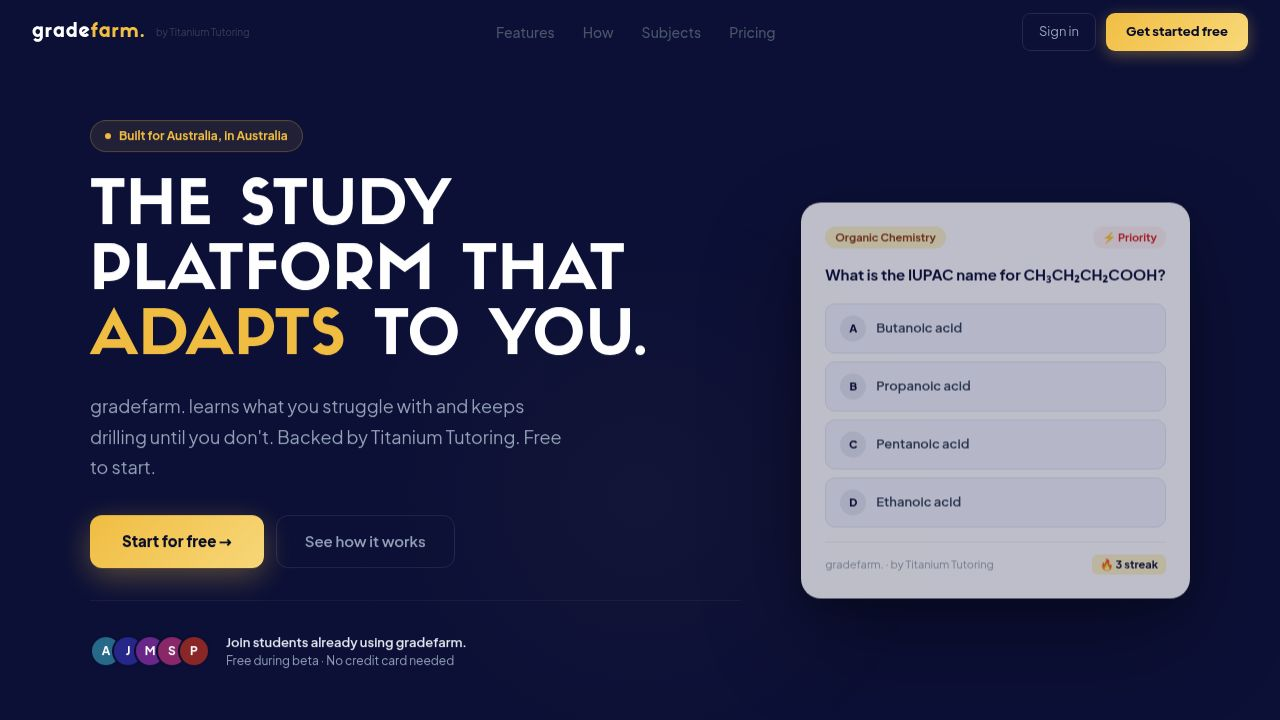
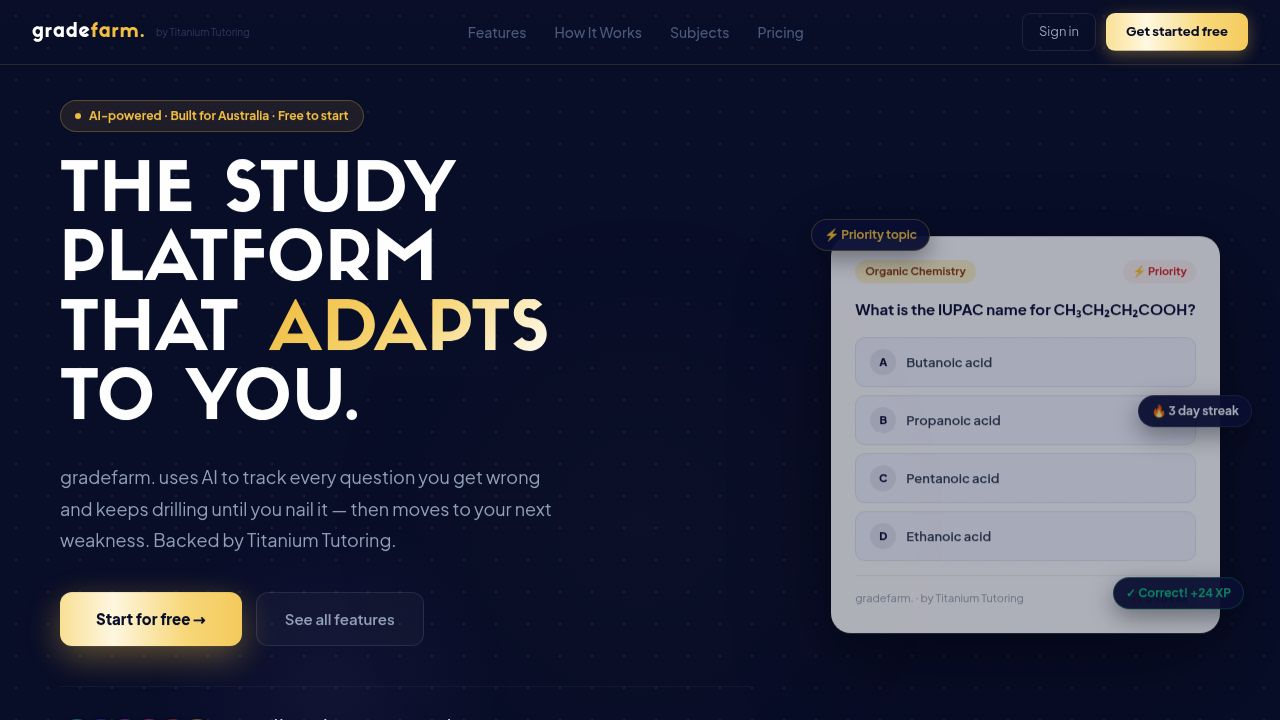
Add mobile-friendly hamburger menu to landing page nav
Task: Add a hamburger menu to the gradefarm. landing page for mobile visitors
who previously had no way to navigate to page sections on small screens.

Implementation:
- Added MobileMenu component in LandingPage.jsx with a slide-down drawer
- Drawer uses max-height + visibility transition for smooth open/close animation
- visibility:hidden (delayed until after max-height transition) removes elements
  from the accessibility tree when closed
- Hamburger button (☰/✕ toggle) added to nav; .hmenu class shows it at the
  same breakpoint (<= 900px) where .dnav hides the desktop nav links, ensuring
  no gap where neither control is visible
- Sign in and Get started buttons given .dnav class so they also hide on mobile
- ESC key dismisses the drawer (keydown listener, cleaned up on unmount)
- Outside tap dismisses via a transparent fixed overlay (position:fixed,inset:0)
  that renders only when the menu is open
- Clicking any nav link scrolls to the section smoothly and closes the drawer

Files changed:
- artifacts/gradefarm/src/components/LandingPage.jsx

Code review fix applied:
- Changed .hmenu breakpoint from 768px to 900px to match .dnav breakpoint,
  eliminating the 769-900px gap where no nav was accessible

Verified with Playwright e2e tests at 390x844 viewport: all interactions pass.

Replit-Task-Id: 02be6da1-bb95-4285-999b-b8ba0be54cf0

diff --git a/artifacts/gradefarm/src/components/LandingPage.jsx b/artifacts/gradefarm/src/components/LandingPage.jsx
@@ -235,16 +235,73 @@ function DemoCard() {
   )
 }
 
+/* ─── MobileMenu ───────────────────────────────────────────────────────── */
+
+function MobileMenu({ open, onClose, onNavigate }) {
+  const NAV_LINKS = [['features','Features'],['how','How It Works'],['subjects','Subjects'],['pricing','Pricing']]
+
+  useEffect(() => {
+    if (!open) return
+    const onKey = e => { if (e.key === 'Escape') onClose() }
+    window.addEventListener('keydown', onKey)
+    return () => window.removeEventListener('keydown', onKey)
+  }, [open, onClose])
+
+  return (
+    <>
+      {open && (
+        <div
+          onClick={onClose}
+          style={{ position:'fixed', inset:0, zIndex:98, background:'transparent' }}
+        />
+      )}
+      <div style={{
+        position: 'fixed', top: 64, left: 0, right: 0, zIndex: 99,
+        background: 'rgba(8,13,40,0.98)', backdropFilter: 'blur(20px)',
+        borderBottom: '1px solid rgba(241,190,67,0.15)',
+        overflow: 'hidden',
+        maxHeight: open ? 280 : 0,
+        visibility: open ? 'visible' : 'hidden',
+        transition: 'max-height 0.35s cubic-bezier(0.4,0,0.2,1), visibility 0s linear ' + (open ? '0s' : '0.35s'),
+      }}>
+        <div style={{ padding: '12px 24px 20px', display: 'flex', flexDirection: 'column', gap: 4 }}>
+          {NAV_LINKS.map(([id, label]) => (
+            <button
+              key={id}
+              onClick={() => onNavigate(id)}
+              style={{
+                background: 'none', border: 'none',
+                color: '#94a3b8', fontSize: 16, fontWeight: 600,
+                fontFamily: "'Plus Jakarta Sans', sans-serif",
+                textAlign: 'left', cursor: 'pointer',
+                padding: '14px 8px',
+                borderBottom: '1px solid rgba(255,255,255,0.05)',
+                transition: 'color 0.15s',
+              }}
+              onMouseEnter={e => { e.currentTarget.style.color = '#f1f5f9' }}
+              onMouseLeave={e => { e.currentTarget.style.color = '#94a3b8' }}
+            >
+              {label}
+            </button>
+          ))}
+        </div>
+      </div>
+    </>
+  )
+}
+
 /* ─── main component ───────────────────────────────────────────────────── */
 
 export default function LandingPage({ onGetStarted, onSignIn }) {
   const [scrolled, setScrolled] = useState(false)
+  const [menuOpen, setMenuOpen] = useState(false)
   useEffect(() => {
     const h = () => setScrolled(window.scrollY > 40)
     window.addEventListener('scroll', h)
     return () => window.removeEventListener('scroll', h)
   }, [])
   const scroll = id => document.getElementById(id)?.scrollIntoView({ behavior: 'smooth' })
+  const handleMobileNav = id => { scroll(id); setMenuOpen(false) }
 
   return (
     <div style={{ minHeight: '100vh', background: NAVYD, color: '#f1f5f9', fontFamily: FONT_B, overflowX: 'hidden' }}>
@@ -274,6 +331,7 @@ export default function LandingPage({ onGetStarted, onSignIn }) {
         .scan-line { position:absolute; left:0; right:0; height:40%; background:linear-gradient(to bottom,transparent,rgba(241,190,67,0.04),transparent); animation:scan 4s ease-in-out infinite; pointer-events:none; }
         * { box-sizing:border-box; }
         @media(max-width:900px) {
+          .hmenu { display:block !important; }
           .dnav { display:none !important; }
           .hero-grid { flex-direction:column !important; }
           .demo-wrap { display:none !important; }
@@ -303,10 +361,20 @@ export default function LandingPage({ onGetStarted, onSignIn }) {
           ))}
         </div>
         <div style={{ display:'flex', alignItems:'center', gap:10 }}>
-          <button onClick={onSignIn} style={{ padding:'8px 16px', borderRadius:8, border:'1px solid rgba(255,255,255,0.09)', background:'transparent', color:MUTED, fontSize:13, cursor:'pointer', fontFamily:FONT_B }}>Sign in</button>
-          <button onClick={onGetStarted} className="ctab shimmer-btn" style={{ padding:'9px 20px', borderRadius:9, border:'none', color:NAVYD, fontSize:13, fontWeight:900, cursor:'pointer', fontFamily:FONT_B, boxShadow:`0 4px 16px rgba(241,190,67,0.35)` }}>Get started free</button>
+          <button onClick={onSignIn} className="dnav" style={{ padding:'8px 16px', borderRadius:8, border:'1px solid rgba(255,255,255,0.09)', background:'transparent', color:MUTED, fontSize:13, cursor:'pointer', fontFamily:FONT_B }}>Sign in</button>
+          <button onClick={onGetStarted} className="ctab shimmer-btn dnav" style={{ padding:'9px 20px', borderRadius:9, border:'none', color:NAVYD, fontSize:13, fontWeight:900, cursor:'pointer', fontFamily:FONT_B, boxShadow:`0 4px 16px rgba(241,190,67,0.35)` }}>Get started free</button>
+          {/* hamburger — mobile only */}
+          <button
+            className="hmenu"
+            onClick={() => setMenuOpen(o => !o)}
+            aria-label={menuOpen ? 'Close menu' : 'Open menu'}
+            style={{ display:'none', background:'none', border:'1px solid rgba(255,255,255,0.1)', borderRadius:8, color:'#f1f5f9', fontSize:22, lineHeight:1, cursor:'pointer', padding:'6px 10px', fontFamily:'monospace' }}
+          >
+            {menuOpen ? '✕' : '☰'}
+          </button>
         </div>
       </nav>
+      <MobileMenu open={menuOpen} onClose={() => setMenuOpen(false)} onNavigate={handleMobileNav} />
 
       {/* ── HERO ── */}
       <section className="dot-grid" style={{ minHeight:'100vh', display:'flex', alignItems:'center', justifyContent:'center', padding:'100px 32px 60px', position:'relative', overflow:'hidden' }}>